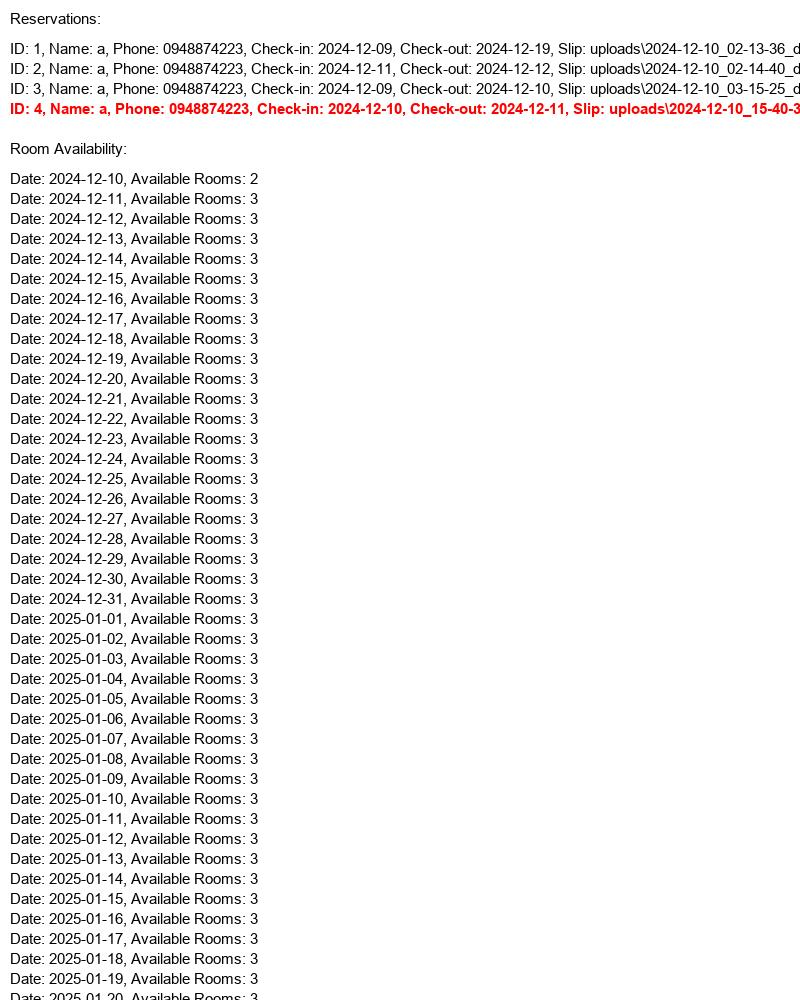
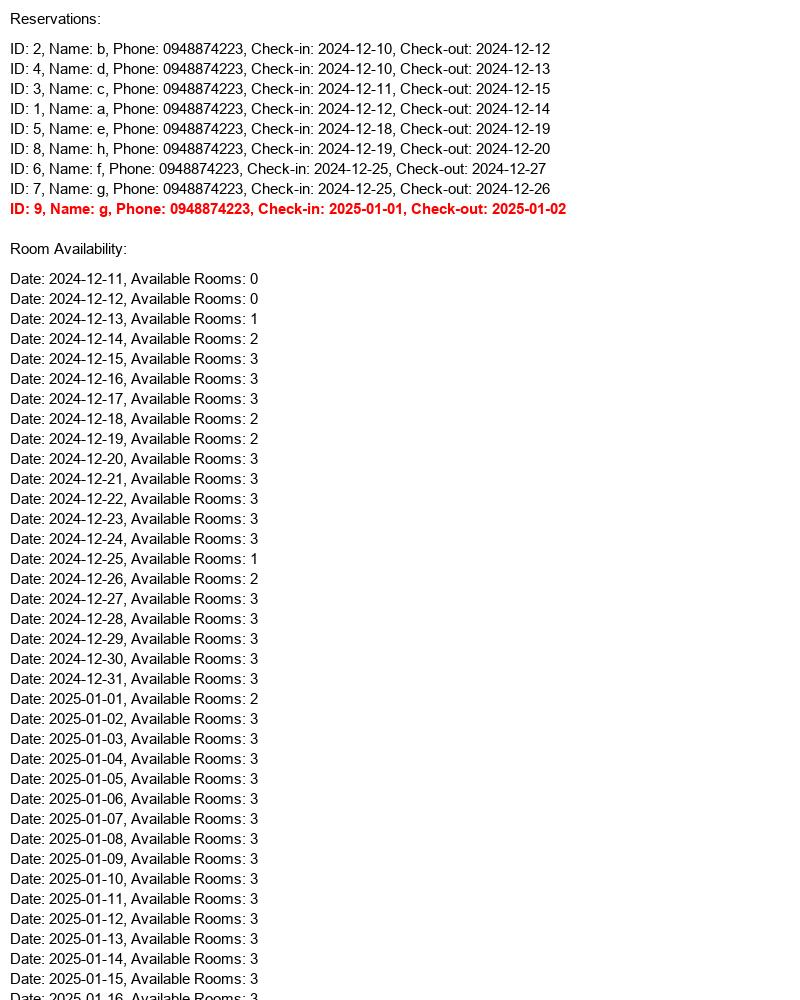
Update

diff --git a/templates/hotel_information.html b/templates/hotel_information.html
@@ -40,6 +40,20 @@
             background-color: #0056b3;
         }
     </style>
+    <script>
+        function checkAvailabilityAndBook() {
+            fetch('/check-and-book', {
+                method: 'POST'
+            })
+            .then(response => response.json())
+            .then(data => {
+                alert(data.message);
+            })
+            .catch(error => {
+                console.error('Error:', error);
+            });
+        }
+    </script>
 </head>
 <body>
     <div class="container">
@@ -63,3 +77,4 @@
     </div>
 </body>
 </html>
+

diff --git a/app.py b/app.py
@@ -30,8 +30,9 @@ class RoomAvailability(db.Model):
     available_rooms = db.Column(db.Integer, nullable=False)
 
 @app.route('/')
-def hotel_informaion():
-    return render_template('hotel_informaion.html')
+def hotel_information():
+    update_room_availability()  # เรียกฟังก์ชันนี้ทุกครั้งที่หน้าเว็บถูกเข้าถึง
+    return render_template('hotel_information.html')
 
 @app.route('/status_room')
 def status_room():
@@ -55,10 +56,18 @@ def submit_reservation():
     current_time = datetime.now().strftime('%Y-%m-%d_%H-%M-%S')
     slip_filename = os.path.join(app.config['UPLOAD_FOLDER'], f"{current_time}_{slip.filename}")
     slip.save(slip_filename)
+    reservation_details = {
+        'name': name,
+        'phone': phone,
+        'checkin': checkin,
+        'checkout': checkout,
+    }
+    # สร้างภาพที่มีรายละเอียดการจอง
+    image_path = create_reservation_image_with_details(reservation_details, slip_filename)
 
     # ส่งภาพผ่าน LINE
     line_token = 'ca7yuOC9DjF8FNfHZMaPRMtGORlydUUX83VqTwVoMiR'  # เปลี่ยนด้วย token ของคุณ
-    send_line_image_2(slip_filename, line_token)
+    send_line_image_2(image_path, line_token)
 
     # ตรวจสอบความพร้อมของห้อง
     checkin_date = datetime.strptime(checkin, '%Y-%m-%d')
@@ -100,8 +109,8 @@ def submit_reservation():
     con.commit()
     con.close()
 
-    # ดึงข้อมูลการจองทั้งหมด
-    reservations = get_reservation_data()
+    # ดึงข้อมูลการจองทั้งหมดที่เรียงลำดับตามวันที่ check in ก่อนแล้ว
+    reservations = Reservation.query.order_by(Reservation.checkin).all()
     # ดึงข้อมูลห้องว่างทั้งหมด
     room_availabilities = get_room_availability()
     # สร้างภาพ
@@ -148,6 +157,43 @@ def get_room_availability():
     con.close()
     return room_availabilities
 
+def create_reservation_image_with_details(reservation_details, slip_path):
+    # สร้างภาพพื้นหลัง (white background)
+    img_width, img_height = 800, 1000  # ขนาดภาพ
+    img = Image.new('RGB', (img_width, img_height), color='white')
+    draw = ImageDraw.Draw(img)
+
+    try:
+        # ฟอนต์
+        font = ImageFont.truetype("arial.ttf", 20)
+        bold_font = ImageFont.truetype("arialbd.ttf", 20)
+    except IOError:
+        font = ImageFont.load_default()
+        bold_font = ImageFont.load_default()
+
+    y_offset = 20
+    margin_left = 20
+
+    # ข้อมูลสำหรับแสดงในรูปภาพ
+    draw.text((margin_left, y_offset), f"Name: {reservation_details['name']}", font=bold_font, fill='black')
+    y_offset += 30
+    draw.text((margin_left, y_offset), f"Phone: {reservation_details['phone']}", font=font, fill='black')
+    y_offset += 30
+    draw.text((margin_left, y_offset), f"Check-in: {reservation_details['checkin']}", font=font, fill='black')
+    y_offset += 30
+    draw.text((margin_left, y_offset), f"Check-out: {reservation_details['checkout']}", font=font, fill='black')
+    y_offset += 30
+
+    # แสดงสลิป
+    slip_image = Image.open(slip_path)
+    slip_image = slip_image.resize((660, 490))  # ปรับขนาดของสลิป
+    img.paste(slip_image, (margin_left, y_offset))  # วางสลิปในภาพ
+    y_offset += 310  # ขยับตำแหน่งหลังจากสลิป
+
+    # บันทึกภาพ
+    img.save('reservation_details_with_slip.jpg')
+    return 'reservation_details_with_slip.jpg'
+
 def create_reservation_image(reservations, room_availabilities, latest_reservation_id):
     img = Image.new('RGB', (800, 1000), color='white')
     draw = ImageDraw.Draw(img)
@@ -164,13 +210,12 @@ def create_reservation_image(reservations, room_availabilities, latest_reservati
     y_offset += 30
 
     for reservation in reservations:
-        idd = reservation[0]
-        name = reservation[1]
-        phone = reservation[2]
-        checkin = reservation[3]
-        checkout = reservation[4]
-        slip = reservation[5]
-        line = f"ID: {idd}, Name: {name}, Phone: {phone}, Check-in: {checkin}, Check-out: {checkout}, Slip: {slip}"
+        idd = reservation.id
+        name = reservation.name
+        phone = reservation.phone
+        checkin = reservation.checkin
+        checkout = reservation.checkout
+        line = f"ID: {idd}, Name: {name}, Phone: {phone}, Check-in: {checkin}, Check-out: {checkout}"
         if idd == latest_reservation_id:
             draw.text((10, y_offset), line, font=bold_font, fill='red')
         else:
@@ -201,6 +246,7 @@ def send_line_image(image_path, token):
     message = {'message': 'รายละเอียดการจองและจำนวนห้องว่าง'}
     files = {'imageFile': open(image_path, 'rb')}
     response = requests.post(url, headers=headers, data=message, files=files)
+    files['imageFile'].close()
     return response
 
 def send_line_image_2(image_path, token):
@@ -208,16 +254,10 @@ def send_line_image_2(image_path, token):
     headers = {
         'Authorization': f'Bearer {token}',
     }
-
-    message = {'message': 'มีการอัปโหลดสลิปโอนเงินใหม่'}
+    message = {'message': 'รายละเอียดการจองและสลิปโอนเงิน'}
     files = {'imageFile': open(image_path, 'rb')}
-
-    # ส่ง POST request ไปยัง LINE Notify
     response = requests.post(url, headers=headers, data=message, files=files)
-
-    # ปิดไฟล์หลังจากส่ง
     files['imageFile'].close()
-
     return response
 
 file_path = "instance/reservations.db"
@@ -271,7 +311,8 @@ def upload_file_to_github(file_path, repo, path_in_repo, commit_message, branch,
         print(response.json())
 
 def update_room_availability():
-    while True:
+    i = 0
+    while i < 1:
         try:
             with app.app_context():
                 print("Started updating room_availability&reservations")  # เพิ่มการตรวจสอบการทำงานของฟังก์ชัน
@@ -282,8 +323,6 @@ def update_room_availability():
                 RoomAvailability.query.filter(RoomAvailability.date < str(start_date)).delete()
                 # ลบการจองที่หมดอายุ
                 Reservation.query.filter(Reservation.checkout < str(current_date)).delete()
-                # เรียงลำดับการจองตามวันที่ checkin
-                reservations = Reservation.query.order_by(Reservation.checkin).all()
                 while current_date <= end_date:
                     date_str = current_date.strftime('%Y-%m-%d')
                     available_rooms = 3  # จำนวนห้องว่างเริ่มต้น
@@ -294,7 +333,9 @@ def update_room_availability():
                         room_availability = RoomAvailability(date=date_str, available_rooms=available_rooms)
                         db.session.add(room_availability)
                     current_date += timedelta(days=1)
-                    # แสดงผลการจอง
+
+                # เรียงลำดับการจองตามวันที่ checkin
+                reservations = Reservation.query.order_by(Reservation.checkin).all()
                 for reservation in reservations:
                     print(
                         f"Reservation ID: {reservation.id}, Name: {reservation.name}, Check-in: {reservation.checkin}, Check-out: {reservation.checkout}")
@@ -330,13 +371,11 @@ def update_room_availability():
             time.sleep(1)
             continue
 
-        time.sleep(30)
+        i = i + 1
+        time.sleep(1)
 
 if __name__ == '__main__':
     with app.app_context():
         db.create_all()
-
-        update_thread = threading.Thread(target=update_room_availability)
-        update_thread.start()
 
     app.run(debug=True)

diff --git a/backup.py b/backup.py
@@ -24,16 +24,14 @@ class Reservation(db.Model):
     checkout = db.Column(db.String(10), nullable=False)
     slip = db.Column(db.String(100), nullable=False)
 
-
 class RoomAvailability(db.Model):
     id = db.Column(db.Integer, primary_key=True)
     date = db.Column(db.String(10), nullable=False, unique=True)
     available_rooms = db.Column(db.Integer, nullable=False)
 
-
 @app.route('/')
-def hotel_informaion():
-    return render_template('hotel_informaion.html')
+def hotel_information():
+    return render_template('hotel_information.html')
 
 @app.route('/status_room')
 def status_room():
@@ -54,13 +52,8 @@ def submit_reservation():
     if not os.path.exists(app.config['UPLOAD_FOLDER']):
         os.makedirs(app.config['UPLOAD_FOLDER'])
 
-    # ดึงวันที่และเวลาในรูปแบบที่ต้องการ เช่น 'YYYY-MM-DD_HH-MM-SS'
     current_time = datetime.now().strftime('%Y-%m-%d_%H-%M-%S')
-
-    # ใช้ชื่อไฟล์ใหม่ที่สร้างจากวันที่และเวลา
     slip_filename = os.path.join(app.config['UPLOAD_FOLDER'], f"{current_time}_{slip.filename}")
-
-    # บันทึกไฟล์ที่อัพโหลดด้วยชื่อใหม่
     slip.save(slip_filename)
 
     # ส่งภาพผ่าน LINE
@@ -227,58 +220,6 @@ def send_line_image_2(image_path, token):
 
     return response
 
-def initialize_room_availability():
-    start_date = datetime.now().date()  # วันที่เริ่มต้นเป็นวันปัจจุบัน
-    end_date = start_date + timedelta(days=60)  # กำหนดระยะเวลา 60 วันข้างหน้า
-
-    current_date = start_date
-    while current_date <= end_date:
-        date_str = current_date.strftime('%Y-%m-%d')  # แปลงวันที่เป็น string ในรูปแบบ YYYY-MM-DD
-        available_rooms = 3  # จำนวนห้องว่างเริ่มต้น
-
-        # เพิ่มข้อมูลลงในฐานข้อมูล
-        room_availability = RoomAvailability(date=date_str, available_rooms=available_rooms)
-        db.session.add(room_availability)
-
-        # ขยับวันที่ไปวันถัดไป
-        current_date += timedelta(days=1)
-
-    db.session.commit()  # คอมมิทเพื่อบันทึกข้อมูลลงในฐานข้อมูล
-
-def update_room_availability():
-    while True:
-        try:
-            con = sqlite3.connect('instance/reservations.db')
-            cur = con.cursor()
-            cur.execute("UPDATE room_availability SET available_rooms = 3")
-            cur.execute("SELECT checkin, checkout FROM reservation")
-            reservations = cur.fetchall()
-
-            for reservation in reservations:
-                checkin_date = datetime.strptime(reservation[0], '%Y-%m-%d')
-                checkout_date = datetime.strptime(reservation[1], '%Y-%m-%d')
-                date_to_update = checkin_date
-
-                while date_to_update < checkout_date:
-                    date_str = date_to_update.strftime('%Y-%m-%d')
-                    cur.execute("SELECT available_rooms FROM room_availability WHERE date = ?", (date_str,))
-                    available_rooms = cur.fetchone()[0]
-                    available_rooms -= 1
-                    cur.execute("UPDATE room_availability SET available_rooms = ? WHERE date = ?", (available_rooms, date_str))
-                    date_to_update += timedelta(days=1)
-
-            con.commit()
-            con.close()
-        except sqlite3.OperationalError as e:
-            print(f"SQLite error: {e}. Retrying in 1 second...")
-            time.sleep(1)
-            continue
-
-        time.sleep(30)
-
-import requests
-import base64
-
 file_path = "instance/reservations.db"
 repo = "pungyaen/my-flask-app-1"
 path_in_repo = "instance/reservations.db"
@@ -286,7 +227,6 @@ commit_message = "Update reservations.db"
 branch = "master"  # หรือ master
 github_token = os.getenv('GITHUB_TOKEN')
 token = github_token
-
 
 def upload_file_to_github(file_path, repo, path_in_repo, commit_message, branch, token):
     # อ่านไฟล์
@@ -330,12 +270,71 @@ def upload_file_to_github(file_path, repo, path_in_repo, commit_message, branch,
         print(f"Failed to upload file to GitHub: {response.status_code}")
         print(response.json())
 
+def update_room_availability():
+    while True:
+        try:
+            with app.app_context():
+                print("Started updating room_availability&reservations")  # เพิ่มการตรวจสอบการทำงานของฟังก์ชัน
+                start_date = datetime.now().date()
+                end_date = start_date + timedelta(days=60)
+                current_date = start_date
+                # ลบข้อมูลห้องที่เก่ากว่าวันปัจจุบัน
+                RoomAvailability.query.filter(RoomAvailability.date < str(start_date)).delete()
+                # ลบการจองที่หมดอายุ
+                Reservation.query.filter(Reservation.checkout < str(current_date)).delete()
+                # เรียงลำดับการจองตามวันที่ checkin
+                reservations = Reservation.query.order_by(Reservation.checkin).all()
+                while current_date <= end_date:
+                    date_str = current_date.strftime('%Y-%m-%d')
+                    available_rooms = 3  # จำนวนห้องว่างเริ่มต้น
+                    room_availability = RoomAvailability.query.filter_by(date=date_str).first()
+                    if room_availability:
+                        room_availability.available_rooms = available_rooms
+                    else:
+                        room_availability = RoomAvailability(date=date_str, available_rooms=available_rooms)
+                        db.session.add(room_availability)
+                    current_date += timedelta(days=1)
+                    # แสดงผลการจอง
+                for reservation in reservations:
+                    print(
+                        f"Reservation ID: {reservation.id}, Name: {reservation.name}, Check-in: {reservation.checkin}, Check-out: {reservation.checkout}")
+
+                db.session.commit()
+                print("room_availability&reservations updated!")
+
+            con = sqlite3.connect('instance/reservations.db')
+            cur = con.cursor()
+            cur.execute("SELECT checkin, checkout FROM reservation")
+            reservations = cur.fetchall()
+
+            for reservation in reservations:
+                checkin_date = datetime.strptime(reservation[0], '%Y-%m-%d').date()
+                checkout_date = datetime.strptime(reservation[1], '%Y-%m-%d').date()
+                current_date = datetime.now().date()
+                if checkin_date < current_date:
+                    checkin_date = current_date
+                date_to_update = checkin_date
+
+                while date_to_update < checkout_date:
+                    date_str = date_to_update.strftime('%Y-%m-%d')
+                    cur.execute("SELECT available_rooms FROM room_availability WHERE date = ?", (date_str,))
+                    available_rooms = cur.fetchone()[0]
+                    available_rooms -= 1
+                    cur.execute("UPDATE room_availability SET available_rooms = ? WHERE date = ?", (available_rooms, date_str))
+                    date_to_update += timedelta(days=1)
+
+            con.commit()
+            con.close()
+        except sqlite3.OperationalError as e:
+            print(f"SQLite error: {e}. Retrying in 1 second...")
+            time.sleep(1)
+            continue
+
+        time.sleep(30)
 
 if __name__ == '__main__':
     with app.app_context():
         db.create_all()
-        if RoomAvailability.query.count() == 0:
-            initialize_room_availability()
 
         update_thread = threading.Thread(target=update_room_availability)
         update_thread.start()
